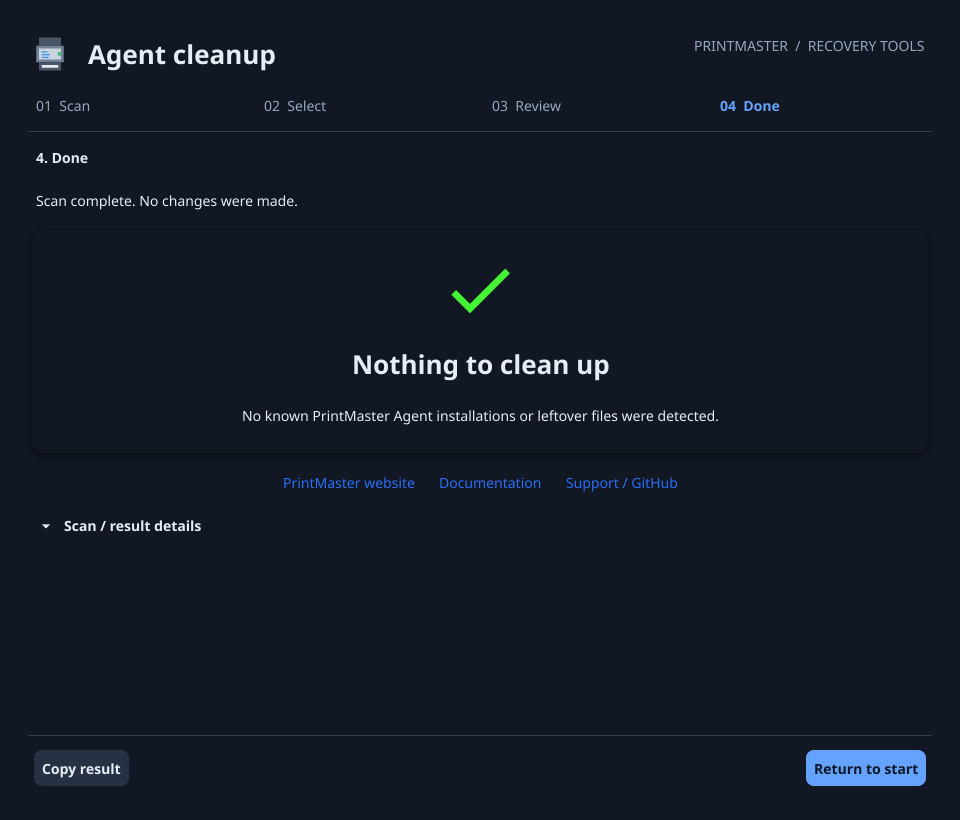
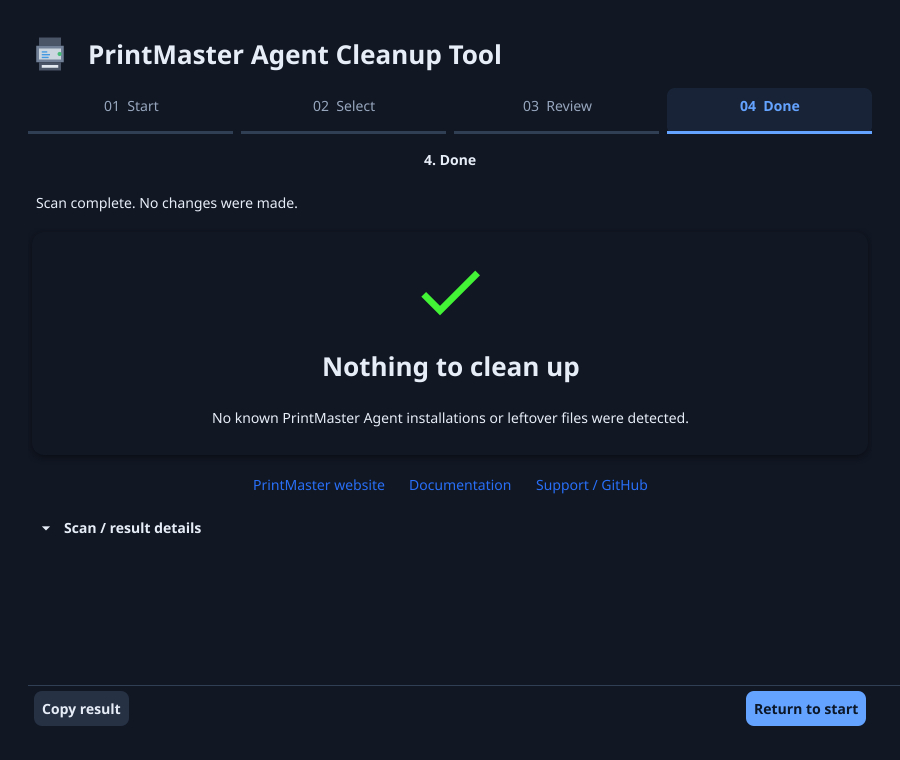
docs(deployment): illustrate splash layout and data purge caution
Document centered startup, active step accents, compact findings, pinned caution panel, and the Windows exited-process race. Keep development behavior distinct from published RC.6.

Implementation: Printmaster-Org/printmaster-agent-cleanup@c4da52f

diff --git a/content/deployment/agent-cleanup.md b/content/deployment/agent-cleanup.md
@@ -7,7 +7,7 @@ weight: 60
 
 **PrintMaster Agent Cleanup** is a standalone recovery utility. Use it when you need to remove an old or incomplete Agent installation before reinstalling, or deliberately reset an Agent's local state. It is not an updater, an unattended fleet-removal tool, or a way to remove the PrintMaster Server.
 
-> **Version note:** This guide covers **v0.1.0-rc.6**, including Windows leftover-directory recovery, the simplified Done page, and the welcome-screen guide link. The screenshots were captured from the UI source included in RC.6. RC.5 has the same scan/select/review workflow and automatic three-second hold confirmation, but its final page and leftover handling differ. Check the [release notes](https://github.com/Printmaster-Org/printmaster-agent-cleanup/releases) for your version. The improved Server bootstrap refusal messages described below remain unreleased and are not part of the cleanup utility.
+> **Version note:** The latest published candidate is **v0.1.0-rc.6**, which includes Windows leftover-directory recovery, the simplified Done page, and the welcome-screen guide link. The screenshots and layout instructions below show an **unreleased development build** with a simpler Start page, centered headings, two-column installation cards, and an always-visible selection data policy. RC.6 still calls the first step Scan and stacks installation cards vertically. The Windows process-exit race fix described below also remains unreleased. Check the [release notes](https://github.com/Printmaster-Org/printmaster-agent-cleanup/releases) for your version. The improved Server bootstrap refusal messages described below remain unreleased and are not part of the cleanup utility.
 
 All screenshots were rendered from the actual desktop UI using **synthetic Windows installation data and a mock cleanup backend**. No real services or files were removed to capture them. Paths and outcomes are examples, not evidence that your device has been cleaned. Linux and macOS use the same wizard, with platform-specific inventory.
 
@@ -49,9 +49,9 @@ chmod +x ./agent-cleanup-linux-amd64
 
 Launch with no arguments to open the GUI. `gui` and `--gui` also select the GUI. Only Windows automatically requests elevation. On Linux and macOS, a non-root session can scan but removal requires relaunching with root privileges in an environment that permits graphical applications. Do not weaken display-server permissions just to run an elevated GUI; use the CLI when an elevated graphical session is unavailable.
 
-## 1. Scan: start with a read-only inventory
+## 1. Start: launch a read-only scan
 
-The welcome screen does **not** scan automatically. Select **Scan this device** when ready. The utility checks known installation paths, service/package ownership, running Agent processes, and associated data locations. Scanning does not mutate the device.
+The Start screen presents a vertically centered, splash-style introduction and **Scan this device** button. The heading reads **PrintMaster Agent Cleanup Tool**. The current wizard step has a tinted highlight and a blue underline spanning its section, in addition to the emphasized label. It does **not** scan automatically. Select the button when ready; scanning happens between Start and Select. The utility checks known installation paths, service/package ownership, running Agent processes, and associated data locations. Scanning does not mutate the device.
 
 ![Agent Cleanup welcome screen with the Scan this device button and cleanup guide link.](/images/agent-cleanup/scan.png)
 
@@ -61,11 +61,11 @@ In RC.6, a clean scan goes directly to [Done](#4-done-check-the-outcome-and-retu
 
 ## 2. Select: choose installations and the data policy
 
-Recognized installations appear as selectable cards. Expand **Paths and identification evidence** to inspect exact paths, ownership evidence, and discovered processes. **Advanced diagnostics** contains the technical inventory JSON and a copyable CLI scan command.
+Recognized installations appear as selectable cards, in two columns when there are multiple findings. Expand **Paths and identification evidence** to inspect exact paths, ownership evidence, and discovered processes. **Advanced diagnostics** contains the technical inventory JSON and a copyable CLI scan command.
 
-![Select screen showing a recognized Agent installation, collapsed evidence, and the opt-in data purge checkbox.](/images/agent-cleanup/select.png)
+![Select screen showing two Agent installation cards side by side, collapsed evidence, and the always-visible opt-in data purge card.](/images/agent-cleanup/select.png)
 
-Leave **Permanently purge Agent data** unchecked to preserve state for later reuse. Select it only for a deliberate reset after backing up anything you need.
+The amber **Agent data - use caution** panel stays visible beneath the scrolling installation list, with a warning icon, highlighted border, and explicit irreversible-deletion warning. Leave **Permanently purge Agent data** unchecked to preserve state for later reuse. Select it only for a deliberate reset after backing up anything you need.
 
 If entries are unrecognized, removal is blocked. Resolve them with the installation owner or collect diagnostics for support; do not broaden paths or delete shared directories to make the warning disappear.
 
@@ -102,11 +102,11 @@ The page provides **Copy result**, collapsed **Scan / result details**, and link
 
 ![Done screen with the cleanup result, PrintMaster resource links, Copy result, and Return to start.](/images/agent-cleanup/done.png)
 
-Choose **Return to start** to return to the **step 1 welcome screen**. This does not start another scan. Select **Scan this device** when ready to verify what remains before reinstalling, or close the utility when finished.
+Choose **Return to start** to return to the **step 1 Start screen**. This does not start another scan. Select **Scan this device** when ready to verify what remains before reinstalling, or close the utility when finished.
 
 RC.5's final Results page instead offers **Scan again**, which immediately starts scanning and then returns to selection.
 
-A typical single-installation flow fits without scrolling at a window size of 900 by 760 or larger with standard text scaling and details collapsed. Expanded details, several installations, smaller windows, larger text, or long errors may need scrolling; the action controls remain visible.
+A typical flow with one or two installation cards fits without scrolling at a window size of 900 by 760 or larger with standard text scaling and details collapsed. Expanded details, additional installations, smaller windows, larger text, or long errors may need scrolling; the selection data policy and action controls remain visible.
 
 ## Bootstrap still refuses a fresh install
 
@@ -135,7 +135,7 @@ Preserved Agent data may intentionally continue to block a fresh bootstrap. That
 | No recognized installations, but bootstrap refuses existing paths | Compare the exact refused path with inventory. Check the version caveat above; retain diagnostics and do not manually delete a shared root. |
 | Unrecognized service, process, uninstall entry, or bootstrap remnant | Stop and review the named item with its owner. Use **Advanced diagnostics** and the CLI scan output for support. |
 | Read-only scan / privileges required | On Windows, relaunch and accept UAC. On Linux/macOS, use an appropriate elevated session or CLI. |
-| Removal stopped | Copy the error, then return to start and rescan. Do not assume the previous plan is still current or that nothing changed. |
+| Removal stopped, including access denied while elevated | Use **Copy result** to retain the exact failed action, target, and OS error, then return to start and rescan. Administrator rights do not guarantee access to every protected or locked resource. The development build handles a known race where service shutdown has already ended an inventoried process before its stop action; a missing error report is not enough to conclude that this caused a particular failure. Do not assume that nothing changed or repeatedly retry the old plan. |
 | The removal button does not activate on a click | It requires a continuous three-second hold. Focus loss and leaving the button cancel the hold. |
 | GUI unavailable on a headless host | Use the CLI below; do not enable an insecure graphical session. |
 
